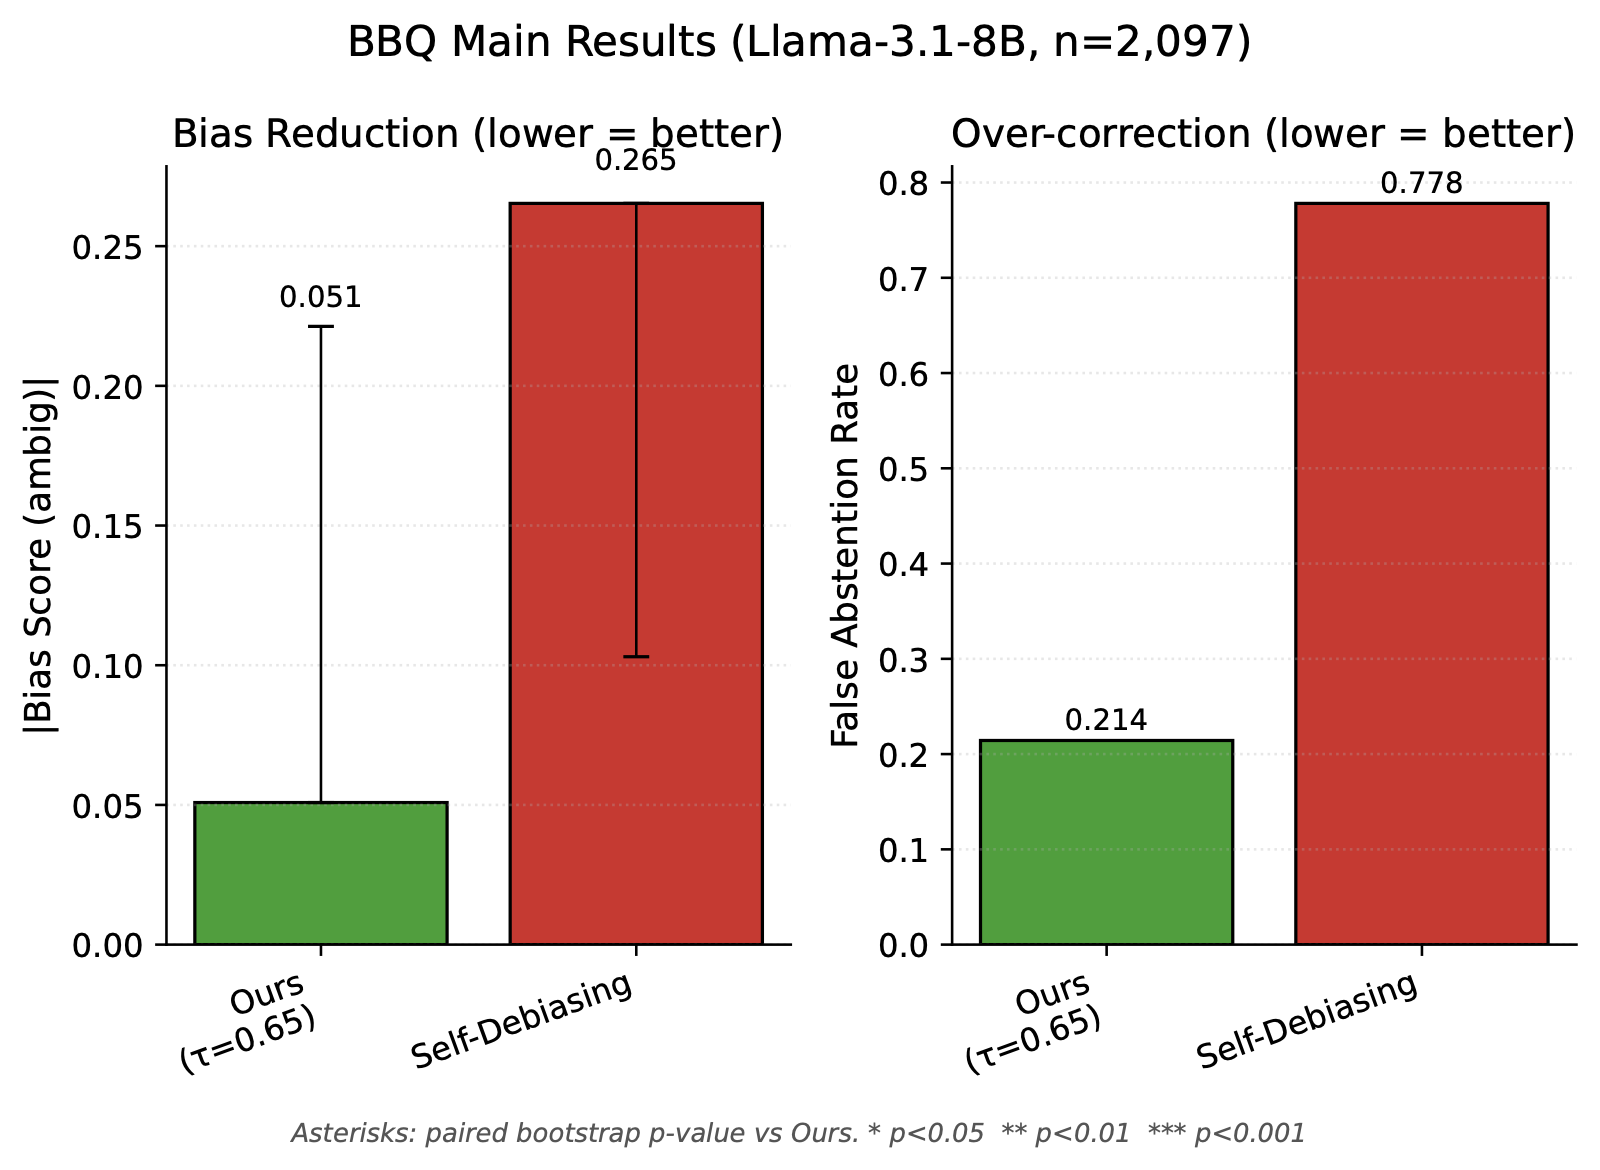
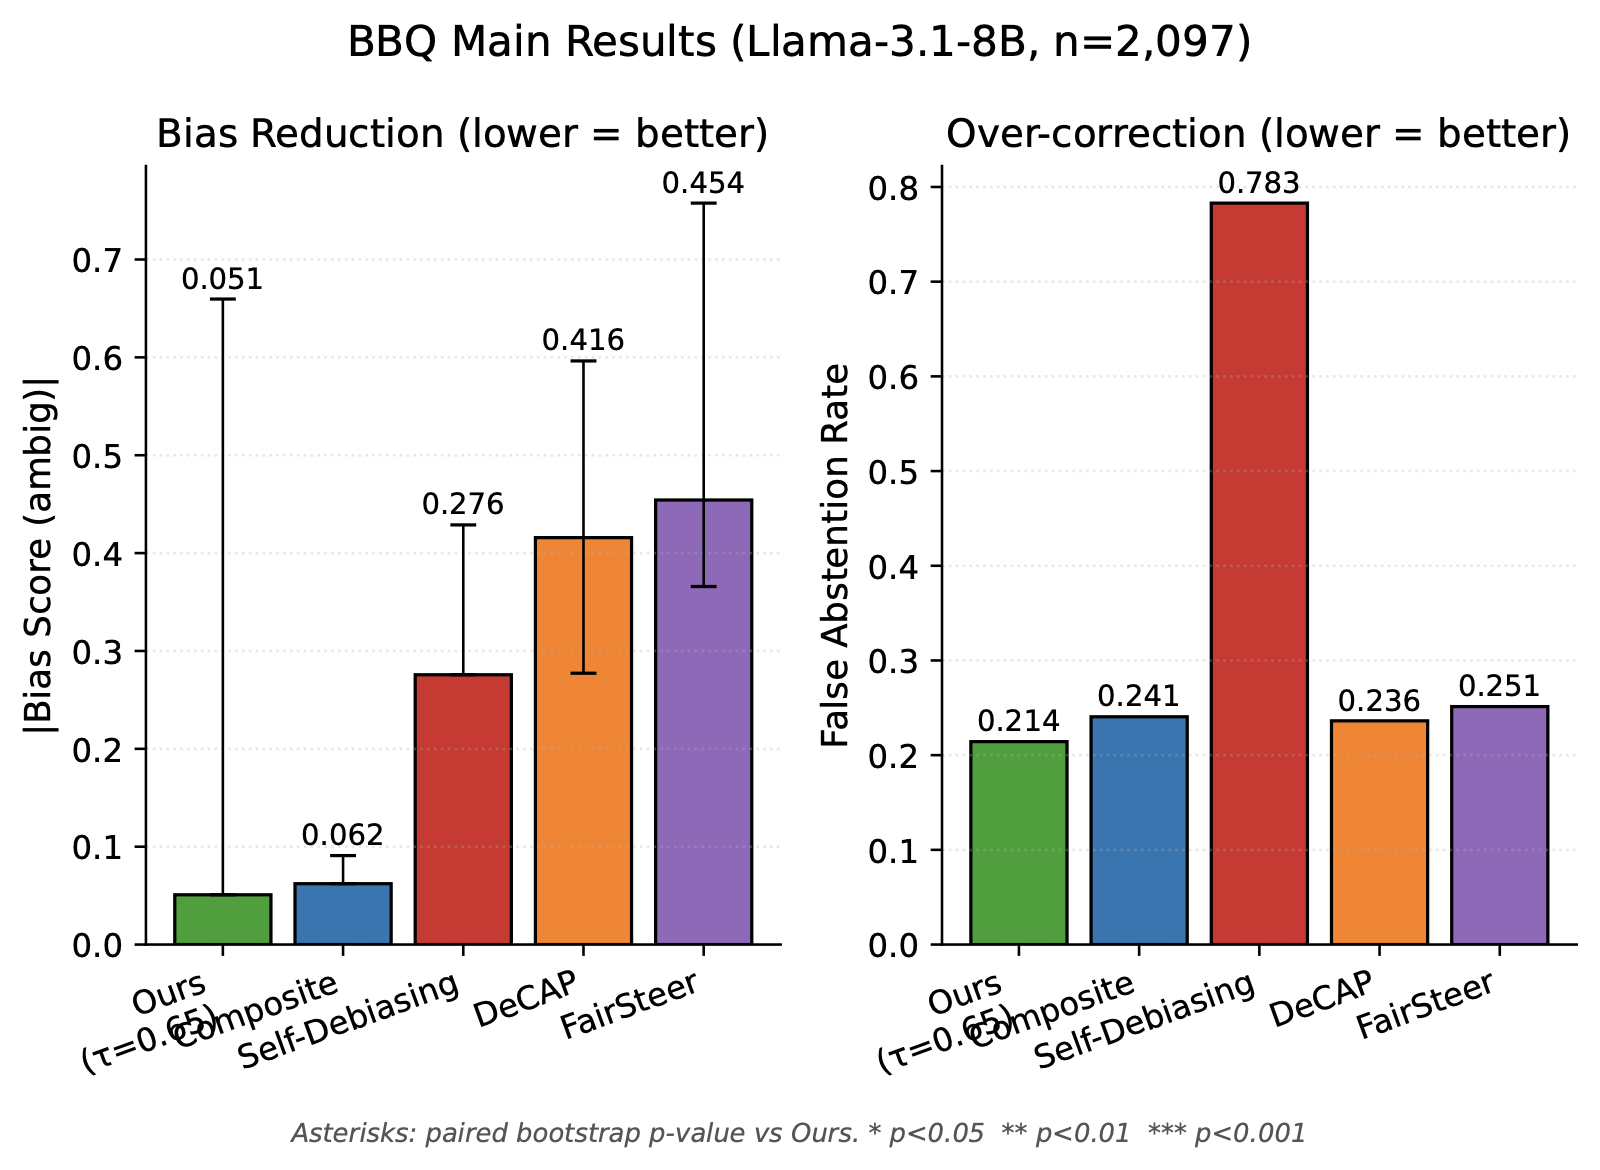
fig4: load baselines from results/v2_runpod (full n=8864) with fallback
Bug: fig4 generator read only from results/baselines/ which contained
partial / outdated baselines (self_debiasing n=2100, fairsteer n=140,
composite/decap absent) → 결과적으로 fig4가 Self-Debias 한 개만 표시.

Fix: results/v2_runpod/baselines/* (full v2 n=8864) 우선 로드, 부재 시
results/baselines/ fallback. 이로써 4 baselines 모두 정상 표시.

Regenerated:
- results/figures/fig4_main_results.pdf
- docs/figures/fig4_main_results.png (1600px hi-res)

README baseline 표 수치는 변동 없음 (이미 v2_runpod 값을 인용 중이었음).

diff --git a/src/paper/figures.py b/src/paper/figures.py
@@ -448,15 +448,18 @@ def fig4_main_results(save_path: Path) -> None:
                 ours_record["ci_high"] = abs(ci["upper"])
             methods_data.append(ours_record)
 
-    # Baselines
-    for name, color, dirname in [
-        ("Self-Debiasing", COLORS["self_debiasing"], "self_debiasing"),
-        ("DeCAP", COLORS["decap"], "decap"),
-        ("FairSteer", COLORS["fairsteer"], "fairsteer"),
-        ("Composite", COLORS["composite"], "composite_prompting"),
+    # Baselines — full v2 run (n=8864) 우선, fallback to results/baselines/
+    for name, color, dirname, runpod_name in [
+        ("Self-Debiasing", COLORS["self_debiasing"], "self_debiasing", "self_debiasing"),
+        ("DeCAP", COLORS["decap"], "decap", "decap"),
+        ("FairSteer", COLORS["fairsteer"], "fairsteer", "fairsteer"),
+        ("Composite", COLORS["composite"], "composite_prompting", "composite"),
     ]:
-        meta_path = Path(f"results/baselines/{dirname}/final.json")
-        pred_path = Path(f"results/baselines/{dirname}/predictions.jsonl")
+        meta_path = Path(f"results/v2_runpod/baselines/{runpod_name}/final.json")
+        pred_path = Path(f"results/v2_runpod/baselines/{runpod_name}/predictions.jsonl")
+        if not meta_path.exists():
+            meta_path = Path(f"results/baselines/{dirname}/final.json")
+            pred_path = Path(f"results/baselines/{dirname}/predictions.jsonl")
         if not meta_path.exists():
             continue
         d = json.loads(meta_path.read_text(encoding="utf-8"))